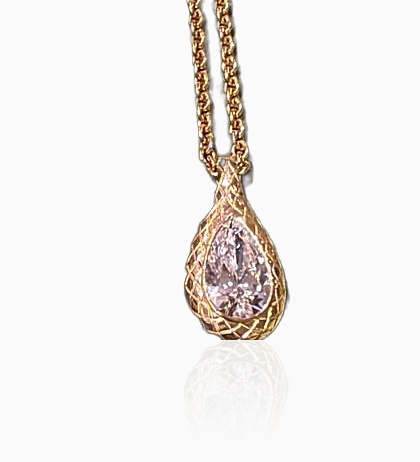
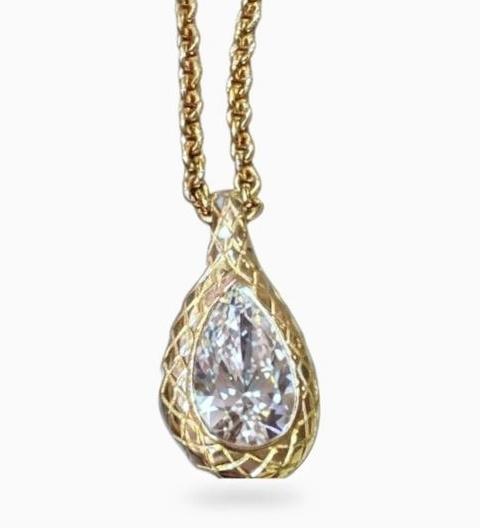
Pendant card crop
Claude-Session: https://claude.ai/code/session_017Li8CGHLQNpPXzno2aoPLJ

Changed region(s): [[0.3095, 0.0, 0.7119, 0.9697]]

diff --git a/pendants/index.html b/pendants/index.html
@@ -344,7 +344,7 @@ body{background:#fff}
 <div class="cpills"><a href="https://www.stella-james.com/collections/love-letters-pendants">Love Letters</a><i>|</i><a href="../earrings/index.html">Earrings</a><i>|</i><a href="index.html">Pendants</a><i>|</i><a href="https://www.stella-james.com/collections/rings">Rings</a></div>
 <h1 class="ctitle">Pendants</h1>
 <p class="cintro">Each Stella James pendant is designed to hold a feeling, a memory, or a sense of self. Crafted from custom cut lab-grown diamonds and set in precious metal, these pieces are luminous markers of the moments and meanings that shape us.</p>
-<section class="cgrid" id="cg"><a class="cc" href="pear-lattice-pendant.html"><div class="im"><span class="tagN">New</span><img alt="The Pear Lattice Pendant" src="images/pear-lattice/diamond-main.jpg?v=10"></div><h3>The Pear Lattice Pendant</h3><p>Price to confirm</p></a><a class="cc" href="https://www.stella-james.com/items/the-white-stella-s-star"><div class="im"><img alt="The white Stella Star" src="https://cdn.shopify.com/s/files/1/0630/8931/1840/files/IMG-4259.png?width=900" loading="lazy"></div><h3>The white Stella Star</h3><p>$4,950.00</p></a><a class="cc" href="https://www.stella-james.com/items/the-pear-pendant"><div class="im"><img alt="The Pear Pendant" src="https://cdn.shopify.com/s/files/1/0630/8931/1840/files/IMG-3833.png?width=900" loading="lazy"></div><h3>The Pear Pendant</h3><p>$2,990.00</p></a><a class="cc" href="https://www.stella-james.com/items/the-oval"><div class="im"><img alt="The oval Pendant" src="https://cdn.shopify.com/s/files/1/0630/8931/1840/files/30154578-6B2B-4269-A241-9938ADD4B24E.jpg?width=900" loading="lazy"></div><h3>The oval Pendant</h3><p>$4,100.00</p></a><a class="cc" href="https://www.stella-james.com/items/untitled-sep1410-38-37"><div class="im"><img alt="The Signature Pear Pendant" src="https://cdn.shopify.com/s/files/1/0630/8931/1840/files/D98D2B5B-BC60-4044-B0E8-A7EE46E85D72.jpg?width=900" loading="lazy"></div><h3>The Signature Pear Pendant</h3><p>$5,650.00</p></a><a class="cc" href="https://www.stella-james.com/items/untitled-sep1123-58-21"><div class="im"><img alt="The Pear Drop Pendant" src="https://cdn.shopify.com/s/files/1/0630/8931/1840/files/22891316-A7E1-487B-99B3-EAD490BA43DB.jpg?width=900" loading="lazy"></div><h3>The Pear Drop Pendant</h3><p>$5,400.00</p></a></section>
+<section class="cgrid" id="cg"><a class="cc" href="pear-lattice-pendant.html"><div class="im"><span class="tagN">New</span><img alt="The Pear Lattice Pendant" src="images/pear-lattice/diamond-card.jpg?v=10"></div><h3>The Pear Lattice Pendant</h3><p>Price to confirm</p></a><a class="cc" href="https://www.stella-james.com/items/the-white-stella-s-star"><div class="im"><img alt="The white Stella Star" src="https://cdn.shopify.com/s/files/1/0630/8931/1840/files/IMG-4259.png?width=900" loading="lazy"></div><h3>The white Stella Star</h3><p>$4,950.00</p></a><a class="cc" href="https://www.stella-james.com/items/the-pear-pendant"><div class="im"><img alt="The Pear Pendant" src="https://cdn.shopify.com/s/files/1/0630/8931/1840/files/IMG-3833.png?width=900" loading="lazy"></div><h3>The Pear Pendant</h3><p>$2,990.00</p></a><a class="cc" href="https://www.stella-james.com/items/the-oval"><div class="im"><img alt="The oval Pendant" src="https://cdn.shopify.com/s/files/1/0630/8931/1840/files/30154578-6B2B-4269-A241-9938ADD4B24E.jpg?width=900" loading="lazy"></div><h3>The oval Pendant</h3><p>$4,100.00</p></a><a class="cc" href="https://www.stella-james.com/items/untitled-sep1410-38-37"><div class="im"><img alt="The Signature Pear Pendant" src="https://cdn.shopify.com/s/files/1/0630/8931/1840/files/D98D2B5B-BC60-4044-B0E8-A7EE46E85D72.jpg?width=900" loading="lazy"></div><h3>The Signature Pear Pendant</h3><p>$5,650.00</p></a><a class="cc" href="https://www.stella-james.com/items/untitled-sep1123-58-21"><div class="im"><img alt="The Pear Drop Pendant" src="https://cdn.shopify.com/s/files/1/0630/8931/1840/files/22891316-A7E1-487B-99B3-EAD490BA43DB.jpg?width=900" loading="lazy"></div><h3>The Pear Drop Pendant</h3><p>$5,400.00</p></a></section>
 
 <section class="exp"><h2>Explore All Collections</h2><div class="erow"><a href="https://www.stella-james.com/collections/love-letters"><img src="https://cdn.prod.website-files.com/6800032555e25721a3be6721/69851e5ffd338da9433b5fbe_Stella_James.jpg" alt="Love Letters" loading="lazy"><h3>Love Letters</h3><p>Our signature diamond letter pendants made for our love ones</p><span>Shop Love Letters</span></a><a href="https://www.stella-james.com/collections/love-letters-earrings"><img src="https://cdn.prod.website-files.com/6800032555e25721a3be6721/69851e648b2465bb9ddbdce3_Stella_James%20(1).jpg" alt="Earrings" loading="lazy"><h3>Earrings</h3><p>Elevated diamond essentials for everyday elegance</p><span>Shop Earrings</span></a><a href="https://www.stella-james.com/collections/pendants"><img src="https://cdn.prod.website-files.com/6800032555e25721a3be6721/69851e587c04ca1f651a7e28_Stella_James%20(2).jpg" alt="Pendants" loading="lazy"><h3>Pendants</h3><p>Timeless diamond pendant crafted with refined clarity and understated elegance</p><span>Shop Pendants</span></a><a href="https://www.stella-james.com/collections/rings"><img src="https://cdn.prod.website-files.com/6800032555e25721a3be6721/69851e915b7e42f365821ee1_Stella_James.jpg" alt="Rings" loading="lazy"><h3>Rings</h3><p>Timeless diamond rings for every moment</p><span>Shop Rings</span></a></div></section>
 <section class="duoL"><div><span class="k">Need guidance?</span><h2>Talk to a Specialist</h2><p>We’re here to help you find your perfect combination. Whether selecting your first letter, curating a meaningful set, or creating a piece that tells your story.</p><a class="wa" href="https://wa.me/19398456949"><svg viewBox="0 0 24 24" fill="none" stroke="currentColor" stroke-width="1.3"><path d="M3.5 20.5l1.3-4A8.5 8.5 0 1 1 8 19.7z"/><path d="M9 8.6c.2-.5.4-.6.8-.6h.5c.2 0 .4.1.5.4l.7 1.6c.1.2 0 .5-.1.6l-.5.6c-.1.2-.1.4 0 .6.6 1 1.4 1.8 2.4 2.4.2.1.4.1.6 0l.6-.5c.2-.1.4-.2.6-.1l1.6.7c.3.1.4.3.4.5v.5c0 .4-.1.6-.6.8-.7.3-1.6.4-2.6 0-1.8-.7-3.6-2.5-4.3-4.3-.4-1-.3-1.9 0-2.6z"/></svg> Chat on WhatsApp</a></div>
